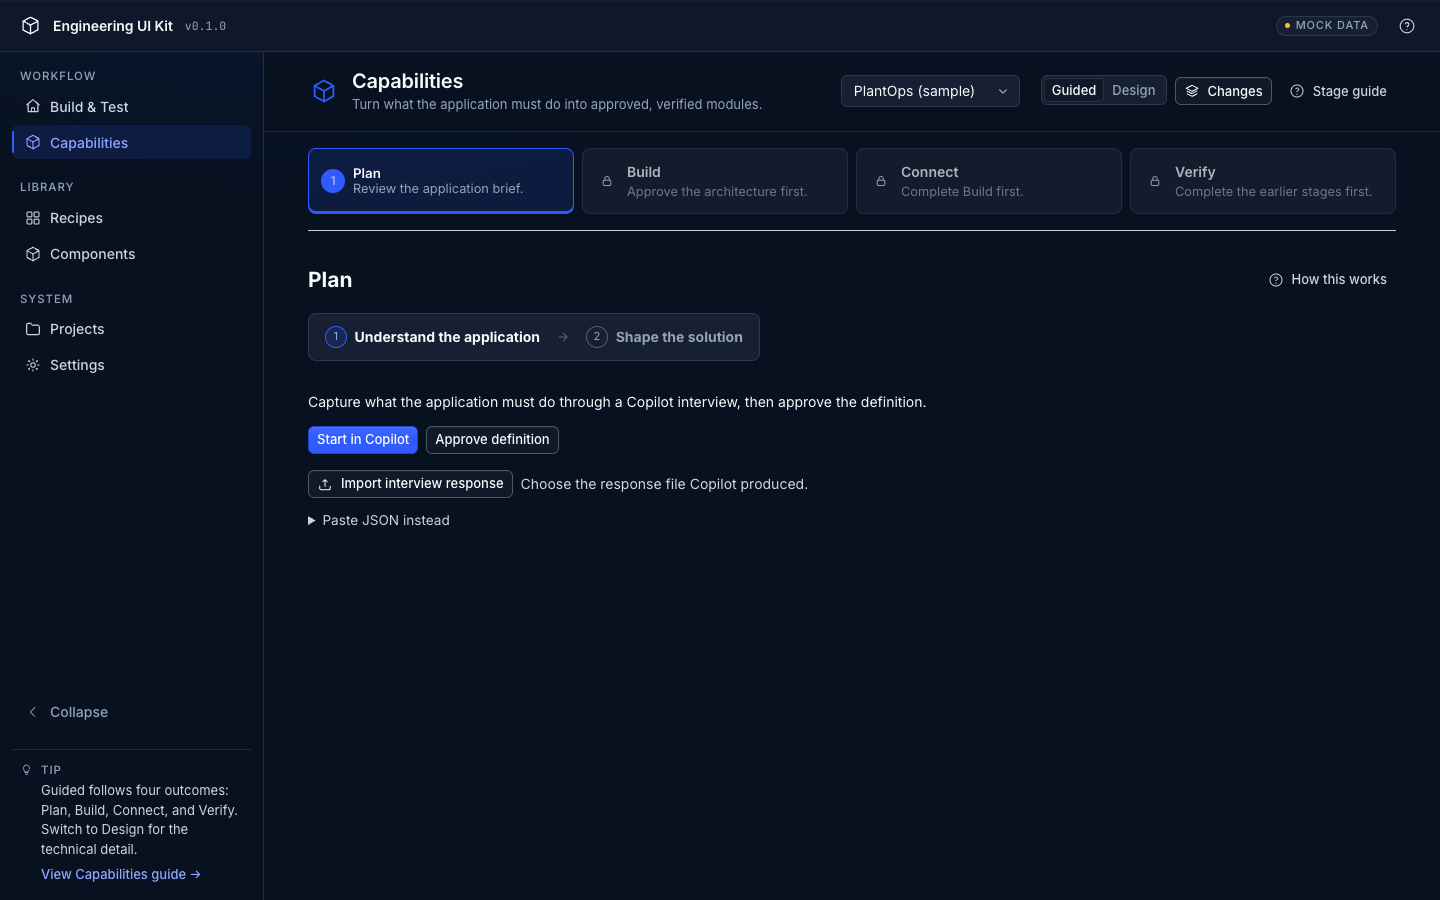
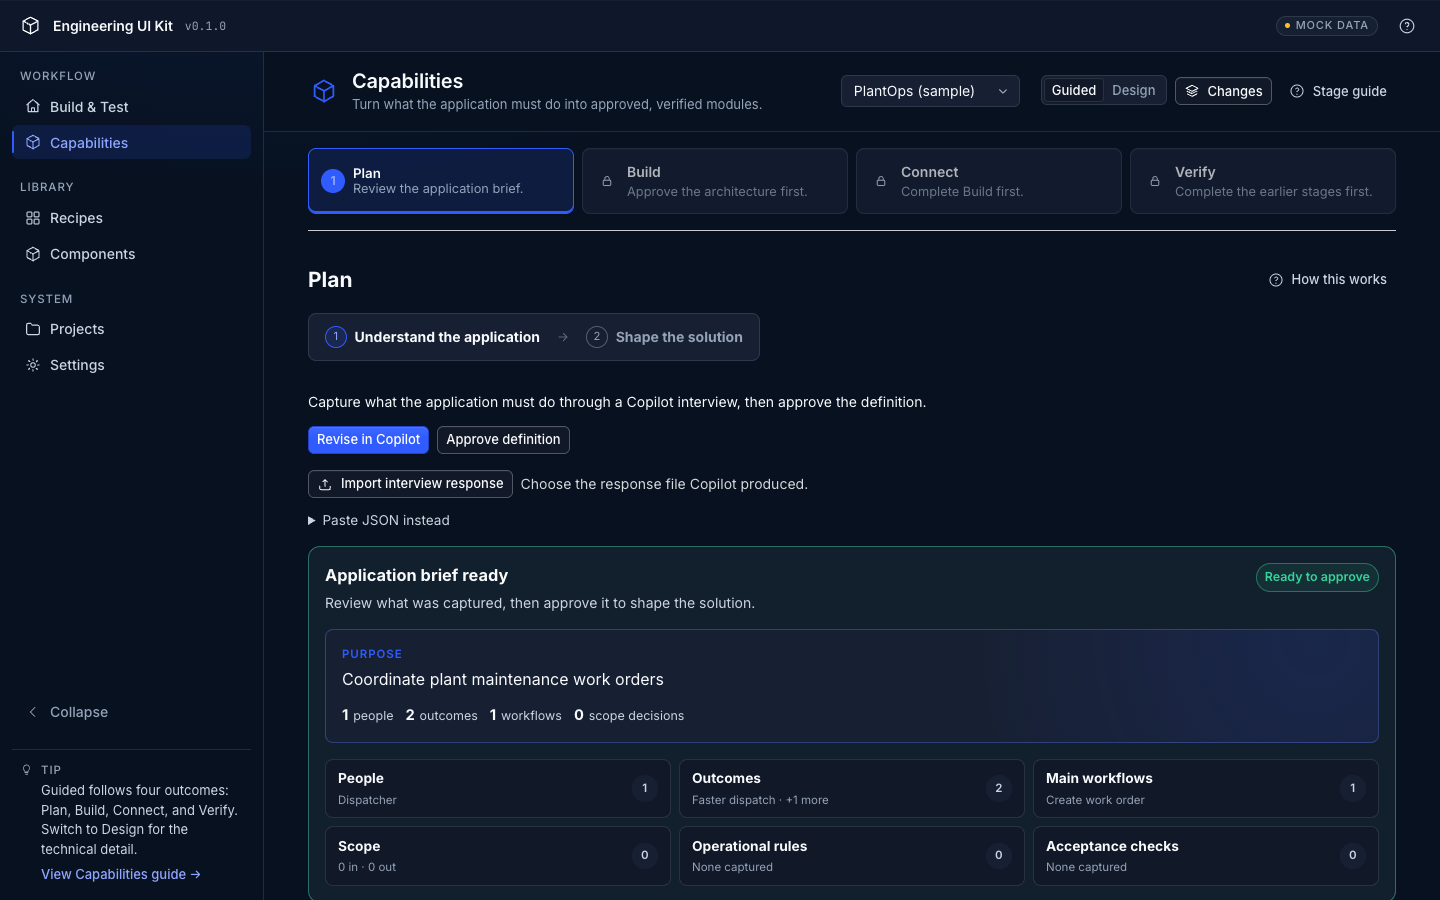
Condense capability brief into polished review

diff --git a/apps/gui/src/styles.css b/apps/gui/src/styles.css
@@ -3731,51 +3731,155 @@ code.path-wrap {
   font-size: 0.78rem;
   font-weight: var(--semantic-typography-weight-semibold);
 }
-.cap-definition-review-grid,
-.cap-definition-detail-grid {
+.cap-definition-purpose {
+  position: relative;
+  overflow: hidden;
+  padding: var(--semantic-spacing-4);
+  border: 1px solid color-mix(in srgb, var(--semantic-accent-primary) 24%, var(--semantic-border-subtle));
+  border-radius: var(--semantic-radius-md);
+  background:
+    radial-gradient(circle at 94% 10%, color-mix(in srgb, var(--semantic-accent-primary) 12%, transparent), transparent 34%),
+    var(--semantic-surface-inset);
+}
+.cap-definition-purpose > span {
+  display: block;
+  margin-bottom: var(--semantic-spacing-1);
+  color: var(--semantic-accent-primary);
+  font-size: 0.72rem;
+  font-weight: var(--semantic-typography-weight-semibold);
+  letter-spacing: 0.08em;
+  text-transform: uppercase;
+}
+.cap-definition-purpose > p {
+  max-width: 78rem;
+  font-size: 1rem;
+  line-height: 1.55;
+}
+.cap-definition-metrics {
+  display: flex;
+  flex-wrap: wrap;
+  gap: var(--semantic-spacing-3);
+  margin-top: var(--semantic-spacing-3);
+  color: var(--semantic-text-secondary);
+  font-size: 0.78rem;
+}
+.cap-definition-metrics span {
+  display: inline-flex;
+  align-items: baseline;
+  gap: 0.3rem;
+}
+.cap-definition-metrics strong {
+  color: var(--semantic-text-primary);
+  font-size: 0.92rem;
+}
+.cap-brief-sections {
+  display: grid;
+  grid-template-columns: repeat(3, minmax(0, 1fr));
+  gap: var(--semantic-spacing-2);
+}
+.cap-brief-section {
+  min-width: 0;
+  border: 1px solid var(--semantic-border-subtle);
+  border-radius: var(--semantic-radius-md);
+  background: var(--semantic-surface-panel-raised);
+  transition: border-color var(--semantic-motion-duration-fast) var(--semantic-motion-easing-standard),
+    background-color var(--semantic-motion-duration-fast) var(--semantic-motion-easing-standard);
+}
+.cap-brief-section:hover,
+.cap-brief-section[open] {
+  border-color: var(--semantic-border-strong);
+  background: color-mix(in srgb, var(--semantic-surface-panel-raised) 94%, var(--semantic-accent-primary) 6%);
+}
+.cap-brief-section[open] {
+  grid-column: 1 / -1;
+}
+.cap-brief-section > summary {
+  display: grid;
+  grid-template-columns: minmax(0, 1fr) auto;
+  align-items: center;
+  gap: var(--semantic-spacing-2);
+  min-height: 3.6rem;
+  padding: var(--semantic-spacing-2) var(--semantic-spacing-3);
+  cursor: pointer;
+  list-style: none;
+}
+.cap-brief-section > summary::-webkit-details-marker {
+  display: none;
+}
+.cap-brief-section > summary > span:first-child {
+  display: grid;
+  min-width: 0;
+  gap: 0.2rem;
+}
+.cap-brief-section > summary strong {
+  color: var(--semantic-text-primary);
+  font-size: 0.86rem;
+}
+.cap-brief-section > summary small {
+  overflow: hidden;
+  color: var(--semantic-text-muted);
+  font-size: 0.72rem;
+  font-weight: var(--semantic-typography-weight-regular);
+  text-overflow: ellipsis;
+  white-space: nowrap;
+}
+.cap-brief-count {
+  display: grid;
+  place-items: center;
+  min-width: 1.65rem;
+  height: 1.65rem;
+  padding: 0 0.35rem;
+  border-radius: 999px;
+  color: var(--semantic-text-secondary);
+  background: var(--semantic-surface-inset);
+  font-size: 0.72rem;
+  font-weight: var(--semantic-typography-weight-semibold);
+}
+.cap-brief-section[open] .cap-brief-count {
+  color: var(--semantic-accent-primary);
+  background: color-mix(in srgb, var(--semantic-accent-primary) 12%, var(--semantic-surface-inset));
+}
+.cap-brief-section > ul,
+.cap-brief-scope {
+  border-top: 1px solid var(--semantic-border-subtle);
+}
+.cap-brief-section ul {
+  display: grid;
+  gap: var(--semantic-spacing-1);
+  margin: 0;
+  padding: var(--semantic-spacing-3) var(--semantic-spacing-4) var(--semantic-spacing-3) 2rem;
+}
+.cap-brief-section li {
+  line-height: 1.45;
+}
+.cap-brief-scope {
   display: grid;
   grid-template-columns: repeat(2, minmax(0, 1fr));
   gap: var(--semantic-spacing-3);
-}
-.cap-definition-review-grid > section,
-.cap-definition-detail-grid > section {
-  min-width: 0;
   padding: var(--semantic-spacing-3);
-  border: 1px solid var(--semantic-border-subtle);
-  border-radius: var(--semantic-radius-md);
-  background: var(--semantic-surface-inset);
 }
-.cap-definition-purpose {
-  grid-column: 1 / -1;
+.cap-brief-scope h4 {
+  font-size: 0.78rem;
 }
-.cap-definition-review ul {
-  display: grid;
-  gap: var(--semantic-spacing-1);
-  margin: var(--semantic-spacing-2) 0 0;
-  padding-left: 1.2rem;
+.cap-brief-scope ul {
+  padding: var(--semantic-spacing-2) 0 0 1.2rem;
 }
-.cap-definition-review li {
-  line-height: 1.45;
-}
-.cap-definition-details {
-  border-top: 1px solid var(--semantic-border-subtle);
-  padding-top: var(--semantic-spacing-3);
-}
-.cap-definition-details > summary {
-  width: fit-content;
-  color: var(--semantic-text-secondary);
-  cursor: pointer;
-}
-.cap-definition-details[open] > summary {
-  margin-bottom: var(--semantic-spacing-3);
-}
-@media (max-width: 760px) {
-  .cap-definition-review-grid,
-  .cap-definition-detail-grid {
-    grid-template-columns: 1fr;
+@media (max-width: 1050px) {
+  .cap-brief-sections {
+    grid-template-columns: repeat(2, minmax(0, 1fr));
   }
-  .cap-definition-purpose {
-    grid-column: auto;
+}
+@media (max-width: 700px) {
+  .cap-definition-review-head {
+    align-items: stretch;
+    flex-direction: column;
+  }
+  .cap-ready-label {
+    width: fit-content;
+  }
+  .cap-brief-sections,
+  .cap-brief-scope {
+    grid-template-columns: 1fr;
   }
 }
 .cap-impact-result {

diff --git a/apps/gui/src/views/capabilities/ApplicationDefinition.tsx b/apps/gui/src/views/capabilities/ApplicationDefinition.tsx
@@ -35,6 +35,22 @@ function asApp(value: unknown): ApplicationSpecification | undefined {
   return value as ApplicationSpecification
 }
 
+function compactPreview(values: string[], limit = 2): string {
+  if (values.length === 0) return 'None captured'
+  const visible = values.slice(0, limit).join(' · ')
+  return values.length > limit ? `${visible} · +${values.length - limit} more` : visible
+}
+
+function briefText(value: unknown): string {
+  if (typeof value === 'string') return value
+  if (!value || typeof value !== 'object') return ''
+  const record = value as Record<string, unknown>
+  for (const key of ['text', 'name', 'description', 'expectedOutcome']) {
+    if (typeof record[key] === 'string') return record[key]
+  }
+  return ''
+}
+
 export function ApplicationDefinition({ bridge, projectId, projection, onChanged, onHelp }: Props) {
   const guided = projection === 'guided'
   const [draft, setDraft] = useState<ApplicationSpecification | undefined>()
@@ -178,6 +194,14 @@ export function ApplicationDefinition({ bridge, projectId, projection, onChanged
   const unresolved = Object.entries(fieldStates).filter(([, s]) => s === 'unresolved')
   const openQuestions = draft?.unresolvedQuestions ?? []
   const visibleDelta = guided ? delta.filter((row) => row.fieldPath !== '$') : delta
+  const legacyDraft = draft as unknown as { userRoles?: unknown[] } | undefined
+  const briefActors = ((draft?.actors as unknown[] | undefined) ?? legacyDraft?.userRoles ?? []).map(briefText).filter(Boolean)
+  const briefOutcomes = ((draft?.outcomes as unknown[] | undefined) ?? []).map(briefText).filter(Boolean)
+  const briefUseCases = ((draft?.useCases as unknown[] | undefined) ?? []).map(briefText).filter(Boolean)
+  const briefInScope = ((draft?.scope?.inScope as unknown[] | undefined) ?? []).map(briefText).filter(Boolean)
+  const briefOutOfScope = ((draft?.scope?.outOfScope as unknown[] | undefined) ?? []).map(briefText).filter(Boolean)
+  const briefRules = ((draft?.rules as unknown[] | undefined) ?? []).map(briefText).filter(Boolean)
+  const briefAcceptance = ((draft?.acceptanceCases as unknown[] | undefined) ?? []).map(briefText).filter(Boolean)
   const guidedDiagnostics = [
     ...((gate?.diagnostics as CapDiagnostic[] | undefined) ?? []),
     ...diagnostics,
@@ -299,45 +323,69 @@ export function ApplicationDefinition({ bridge, projectId, projection, onChanged
               </div>
               <span className="cap-ready-label">Ready to approve</span>
             </div>
-            <div className="cap-definition-review-grid">
-              <section className="cap-definition-purpose">
-                <h4>Purpose</h4>
-                <p>{draft.purpose}</p>
-              </section>
-              <section>
-                <h4>People</h4>
-                <ul>{(draft.actors ?? []).map((actor) => <li key={actor.id}>{actor.text}</li>)}</ul>
-              </section>
-              <section>
-                <h4>Outcomes</h4>
-                <ul>{(draft.outcomes ?? []).map((outcome) => <li key={outcome}>{outcome}</li>)}</ul>
-              </section>
-              <section>
-                <h4>Main workflows</h4>
-                <ul>{(draft.useCases ?? []).map((useCase) => <li key={useCase.id}>{useCase.text}</li>)}</ul>
-              </section>
-              <section>
-                <h4>In scope</h4>
-                <ul>{(draft.scope?.inScope ?? []).map((item) => <li key={item}>{item}</li>)}</ul>
-              </section>
-              <section>
-                <h4>Out of scope</h4>
-                <ul>{(draft.scope?.outOfScope ?? []).map((item) => <li key={item}>{item}</li>)}</ul>
-              </section>
-            </div>
-            <details className="cap-definition-details">
-              <summary>Review operational rules and acceptance checks</summary>
-              <div className="cap-definition-detail-grid">
-                <section>
-                  <h4>Operational rules</h4>
-                  <ul>{(draft.rules ?? []).map((rule) => <li key={rule.id}>{rule.text}</li>)}</ul>
-                </section>
-                <section>
-                  <h4>Acceptance checks</h4>
-                  <ul>{(draft.acceptanceCases ?? []).map((item) => <li key={item.id}>{item.description}</li>)}</ul>
-                </section>
+            <div className="cap-definition-purpose">
+              <span>Purpose</span>
+              <p>{draft.purpose}</p>
+              <div className="cap-definition-metrics" aria-label="Brief summary">
+                <span><strong>{briefActors.length}</strong> people</span>
+                <span><strong>{briefOutcomes.length}</strong> outcomes</span>
+                <span><strong>{briefUseCases.length}</strong> workflows</span>
+                <span><strong>{briefInScope.length + briefOutOfScope.length}</strong> scope decisions</span>
               </div>
-            </details>
+            </div>
+            <div className="cap-brief-sections">
+              <details className="cap-brief-section">
+                <summary>
+                  <span><strong>People</strong><small>{compactPreview(briefActors)}</small></span>
+                  <span className="cap-brief-count">{briefActors.length}</span>
+                </summary>
+                <ul>{briefActors.map((actor, index) => <li key={`${actor}-${index}`}>{actor}</li>)}</ul>
+              </details>
+              <details className="cap-brief-section">
+                <summary>
+                  <span><strong>Outcomes</strong><small>{compactPreview(briefOutcomes, 1)}</small></span>
+                  <span className="cap-brief-count">{briefOutcomes.length}</span>
+                </summary>
+                <ul>{briefOutcomes.map((outcome, index) => <li key={`${outcome}-${index}`}>{outcome}</li>)}</ul>
+              </details>
+              <details className="cap-brief-section">
+                <summary>
+                  <span><strong>Main workflows</strong><small>{compactPreview(briefUseCases, 1)}</small></span>
+                  <span className="cap-brief-count">{briefUseCases.length}</span>
+                </summary>
+                <ul>{briefUseCases.map((useCase, index) => <li key={`${useCase}-${index}`}>{useCase}</li>)}</ul>
+              </details>
+              <details className="cap-brief-section">
+                <summary>
+                  <span><strong>Scope</strong><small>{briefInScope.length} in · {briefOutOfScope.length} out</small></span>
+                  <span className="cap-brief-count">{briefInScope.length + briefOutOfScope.length}</span>
+                </summary>
+                <div className="cap-brief-scope">
+                  <section>
+                    <h4>In scope</h4>
+                    <ul>{briefInScope.map((item, index) => <li key={`${item}-${index}`}>{item}</li>)}</ul>
+                  </section>
+                  <section>
+                    <h4>Out of scope</h4>
+                    <ul>{briefOutOfScope.map((item, index) => <li key={`${item}-${index}`}>{item}</li>)}</ul>
+                  </section>
+                </div>
+              </details>
+              <details className="cap-brief-section">
+                <summary>
+                  <span><strong>Operational rules</strong><small>{compactPreview(briefRules, 1)}</small></span>
+                  <span className="cap-brief-count">{briefRules.length}</span>
+                </summary>
+                <ul>{briefRules.map((rule, index) => <li key={`${rule}-${index}`}>{rule}</li>)}</ul>
+              </details>
+              <details className="cap-brief-section">
+                <summary>
+                  <span><strong>Acceptance checks</strong><small>{compactPreview(briefAcceptance, 1)}</small></span>
+                  <span className="cap-brief-count">{briefAcceptance.length}</span>
+                </summary>
+                <ul>{briefAcceptance.map((item, index) => <li key={`${item}-${index}`}>{item}</li>)}</ul>
+              </details>
+            </div>
           </section>
         ) : (unresolved.length || proposed.length || confirmed.length) ? (
           <div className="cap-review-summary" aria-label="Interview field states">